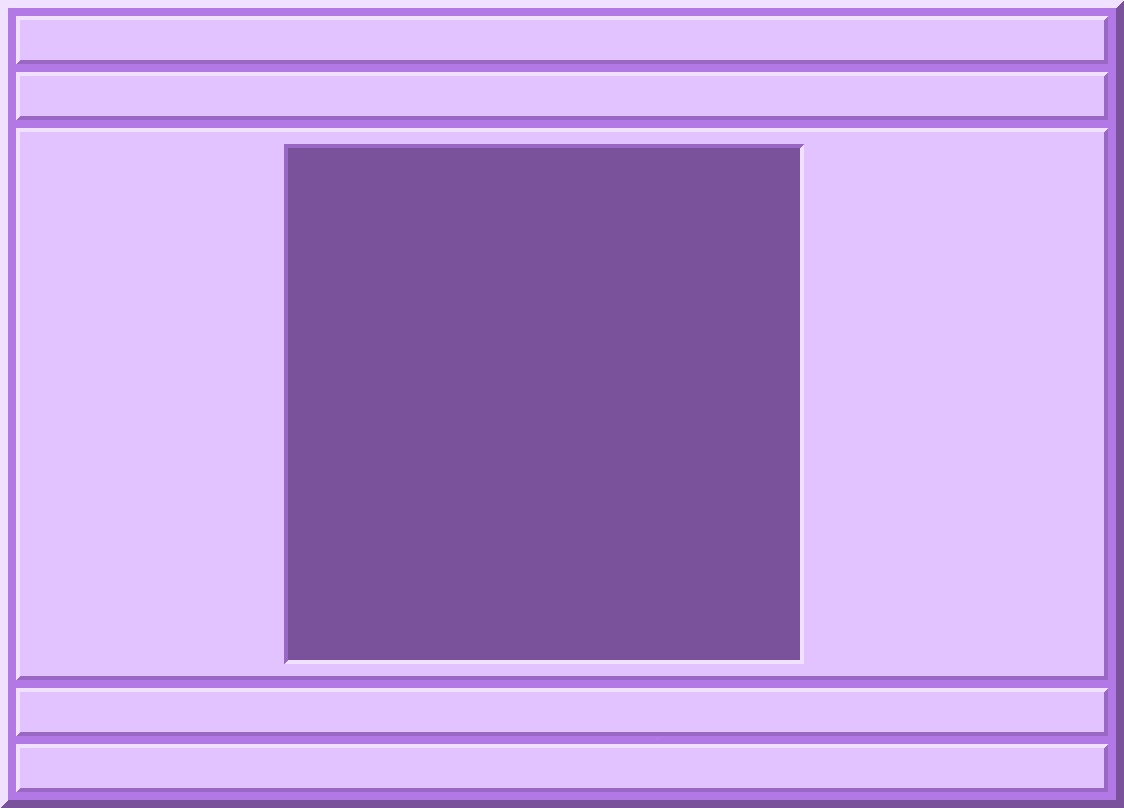
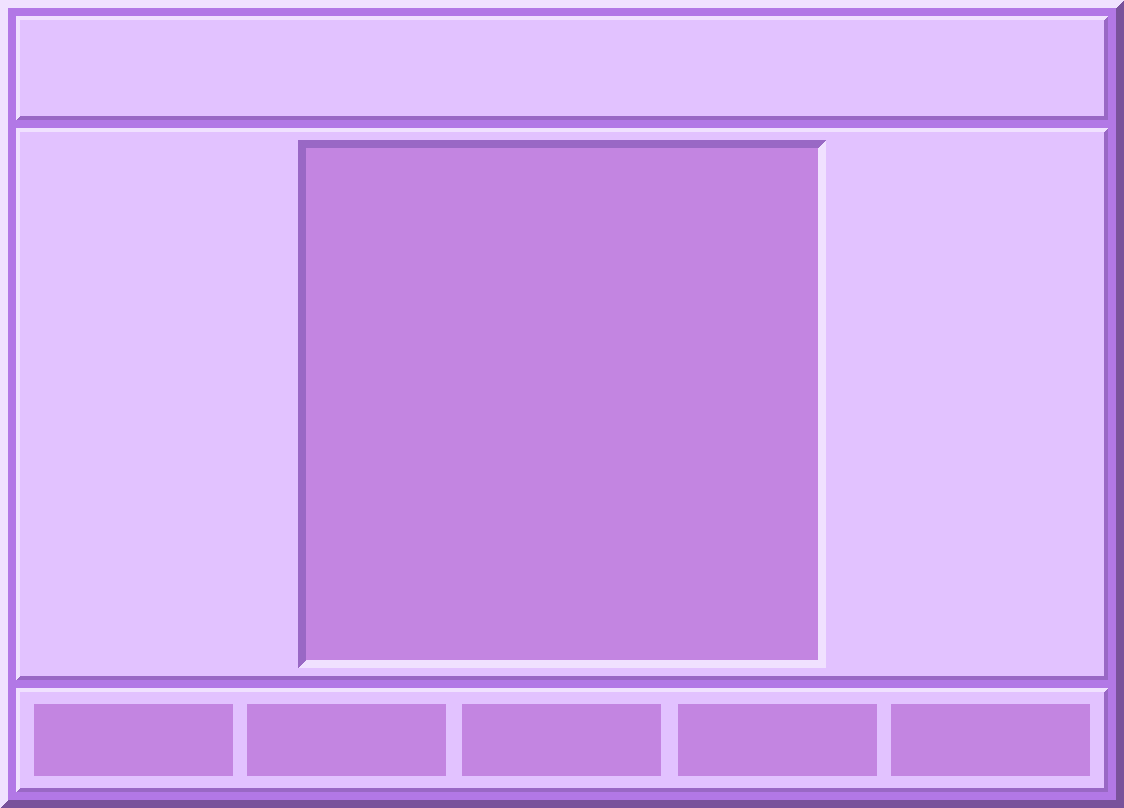
making the game (phaserJS)

diff --git a/frontend/critters/src/game/scenes/PetMenu.ts b/frontend/critters/src/game/scenes/PetMenu.ts
@@ -14,6 +14,7 @@ export class PetMenu extends Scene {
   private titleText!: GameObjects.Text;
   private instructionsText!: GameObjects.Text;
   private noCrittersText?: GameObjects.Text;
+  private aliveCritters: Array<{critter: any, originalIndex: number}> = [];
 
 
   constructor() {
@@ -58,7 +59,11 @@ export class PetMenu extends Scene {
     this.createButton?.destroy();
     this.navigator?.destroy();
 
-    if (this.critters.length === 0) {
+    this.aliveCritters = this.critters
+      .map((critter, originalIndex) => ({ critter, originalIndex }))
+      .filter(({ critter }) => !critter.isDead);
+
+    if (this.aliveCritters.length === 0) {
       this.noCrittersText = this.add.text(100, 450, 'No critters available', {
         font: '20px Arial',
         color: '#ff0000',
@@ -70,8 +75,8 @@ export class PetMenu extends Scene {
     const baseY = 350;
     const spacing = 30;
 
-    this.critters.forEach((critter, index) => {
-      const critterText = this.add.text(120, baseY + index * spacing,
+    this.aliveCritters.forEach(({ critter }, displayIndex) => {
+      const critterText = this.add.text(120, baseY + displayIndex * spacing,
         `  ${critter.critterName}`,
         {
           font: '20px Arial',
@@ -81,15 +86,14 @@ export class PetMenu extends Scene {
         }
       );
 
-      // Simplified interaction setup
       critterText.setInteractive({ useHandCursor: true })
-        .on('pointerover', () => this.updateSelection(index))
-        .on('pointerdown', () => this.selectCritter(index));
+        .on('pointerover', () => this.updateSelection(displayIndex))
+        .on('pointerdown', () => this.selectCritter(displayIndex));
 
       this.critterTexts.push(critterText);
     });
 
-    this.addCreateButton(baseY + this.critters.length * spacing + 50);
+    this.addCreateButton(baseY + this.aliveCritters.length * spacing + 50);
     this.setupNavigation();
     this.updateSelection(0);
   }
@@ -117,8 +121,8 @@ export class PetMenu extends Scene {
     this.createButton.on('pointerout', () => {
       // Only revert if not selected by keyboard
       if (!this.navigator || this.navigator.currentIndex !== this.critters.length) {
-        this.createButton!.setColor('#ff0000');
-        this.createButton!.setBackgroundColor('#ff9999');
+        this.createButton!.setColor('#ff5555');
+        this.createButton!.setBackgroundColor('#ffffff');
       }
     });
 
@@ -134,12 +138,12 @@ export class PetMenu extends Scene {
 
   private setupNavigation() {
     this.navigator = new KeyboardNavigator(this, {
-      maxIndex: this.critters.length + 1,
+      maxIndex: this.aliveCritters.length + 1, // +1 for create button
       onSelect: (index) => {
-        if (index < this.critters.length) {
+        if (index < this.aliveCritters.length) {
           this.selectCritter(index);
         } else {
-            this.scene.start('CreateCritterForm');
+          this.scene.start('CreateCritterForm');
         }
       },
       onChange: (index: number) => this.updateSelection(index)
@@ -150,28 +154,17 @@ export class PetMenu extends Scene {
     // Update critter texts
     this.critterTexts.forEach((text, i) => {
       const isSelected = i === index;
+      const critterName = this.aliveCritters[i].critter.critterName;
       text.setColor(isSelected ? '#ffffff' : '#ef85e4');
-      text.setText(isSelected ? `> ${this.critters[i].critterName}` : `  ${this.critters[i].critterName}`);
+      text.setText(isSelected ? `> ${critterName}` : `  ${critterName}`);
     });
-
-    // Update create button appearance
-    this.updateButtonAppearance(index === this.critters.length);
 
     this.navigator?.setIndex(index);
   }
 
-  private updateButtonAppearance(isSelected: boolean) {
-    if (!this.createButton) return;
-
-    // Visual changes
-    this.createButton.setColor(isSelected ? '#ffffff' : '#ff0000');
-    this.createButton.setBackgroundColor(isSelected ? '#ff5555' : '#ff9999');
+  private selectCritter(displayIndex: number) {
+    const selectedCritter = this.aliveCritters[displayIndex].critter;
+    this.game.registry.set('selectedCritter', selectedCritter);
+    this.scene.start('Game', { selectedCritter });
   }
-
-  private selectCritter(index: number) {
-    const critter = this.critters[index];
-    this.game.registry.set('selectedCritter', critter);
-    this.scene.start('Game', { selectedCritter: critter });
-  }
-
 }

diff --git a/frontend/critters/src/game/scenes/Game.ts b/frontend/critters/src/game/scenes/Game.ts
@@ -3,7 +3,7 @@ import {EventBusService} from '../../app/services/event-bus.service';
 import {CritterStatsPanel} from './helpers/CritterStatsPanel';
 import {GameButton} from './helpers/GameButton';
 import {EVOLUTION_SPRITES, EvolutionStage} from './helpers/constants';
-import {Subscription} from 'rxjs';
+import {lastValueFrom, Subscription} from 'rxjs';
 
 export class Game extends Scene {
   pet!: Phaser.GameObjects.Sprite;
@@ -17,6 +17,7 @@ export class Game extends Scene {
   critter!: any;
   private lastUpdateTime: number = 0;
   private updateInterval: number = 100;
+  private critterUpdateSubscription?: Subscription;
 
   constructor() {
     super('Game');
@@ -62,10 +63,16 @@ export class Game extends Scene {
 
     // Initialize critter from init data or request it
     if (!this.critter && this.selectedCritter?.critterId) {
-      this.eventBus.emitCritterById(this.selectedCritter.critterId);
+      // Load initial critter data
+      const critter = await lastValueFrom(
+        this.eventBus.critterService.getCritterById(this.selectedCritter.critterId)
+      );
+      this.eventBus.emitCritterById(critter.critterId);
+      this.critter = critter;
     }
 
-    // Subscribe to critter updates
+    // Subscribe to critter
+    /*
     this.critterSubscription = this.eventBus.critter$.subscribe(critter => {
       if (critter) {
         this.critter = critter;
@@ -73,8 +80,16 @@ export class Game extends Scene {
         this.updateCritterDisplay();
         this.events.on('update', this.handleUpdate, this);
       }
-    });
+    });*/
 
+    //subscribe to critter updates
+    this.setupSubscriptions();
+
+    if (this.critter?.critterId) {
+      await this.activateCurrentCritter();
+    }
+
+    /*
     // Activate critter in database when scene starts
     if (this.critter?.critterId) {
       const critterId = Number(this.critter.critterId);
@@ -86,7 +101,7 @@ export class Game extends Scene {
       } else {
         console.warn('Failed to activate critter in database');
       }
-    }
+    }*/
 
     // Define the idle animation
     // Only create animation if it doesn't exist
@@ -179,6 +194,12 @@ export class Game extends Scene {
 
     // Clear references
     this.selectedCritter = null;
+
+    if (this.critterUpdateSubscription) {
+      this.critterUpdateSubscription.unsubscribe();
+    }
+
+    this.critterUpdateSubscription?.unsubscribe();
   }
 
   private updateCritterDisplay() {
@@ -195,13 +216,35 @@ export class Game extends Scene {
     }
   }
 
-  private handleUpdate(time: number) {
-    // Throttle updates for performance
-    if (time - this.lastUpdateTime > this.updateInterval) {
-      this.lastUpdateTime = time;
-      if (this.critter) {
+  private setupSubscriptions() {
+    // Base critter data
+    this.critterSubscription = this.eventBus.critter$.subscribe(critter => {
+      if (critter) {
+        this.critter = critter;
         this.updateCritterDisplay();
       }
+    });
+
+    // Real-time updates
+    this.critterUpdateSubscription = this.eventBus.critterUpdate$.subscribe(updatedCritter => {
+      if (updatedCritter && this.critter?.critterId === updatedCritter.critterId) {
+        this.critter = updatedCritter;
+        this.updateCritterDisplay();
+      }
+    });
+  }
+
+  private async activateCurrentCritter(): Promise<void> {
+    const critterId = Number(this.critter.critterId);
+    try {
+      const success = await this.eventBus.activateCritter(critterId);
+      if (success) {
+        console.log('Critter activated successfully');
+        // Force refresh after activation
+        this.eventBus.emitCritterById(critterId);
+      }
+    } catch (error) {
+      console.error('Activation error:', error);
     }
   }
 

diff --git a/frontend/critters/src/app/services/event-bus.service.ts b/frontend/critters/src/app/services/event-bus.service.ts
@@ -1,7 +1,8 @@
 import { Injectable, EventEmitter } from '@angular/core';
-import {BehaviorSubject} from 'rxjs';
+import {BehaviorSubject, catchError, distinctUntilChanged, EMPTY, Subscription} from 'rxjs';
 import {CritterService} from './critter.service';
 import {Critter} from '../../game/scenes/helpers/constants';
+import {CritterGetResponse} from '../shared/model/CritterGetResponse';
 
 interface ActivationStatus {
   critterId: number;
@@ -14,7 +15,8 @@ interface ActivationStatus {
 })
 export class EventBusService {
 
-  constructor(private critterService: CritterService) {
+  constructor(public critterService: CritterService) {
+    this.setupRealTimeUpdates();
   }
 
   feed = new EventEmitter<void>();
@@ -22,6 +24,10 @@ export class EventBusService {
   sleep = new EventEmitter<void>();
   critterActivated = new EventEmitter<number>();
   currentSceneReady = new EventEmitter<Phaser.Scene>();
+  private activeCritterSubscription?: Subscription;
+  private critterUpdateSubject = new BehaviorSubject<CritterGetResponse | null>(null);
+  critterUpdate$ = this.critterUpdateSubject.asObservable();
+
 
   //LOAD CRITTERS (multiple)
   private crittersSubject = new BehaviorSubject<Critter[]>([]);
@@ -42,7 +48,7 @@ export class EventBusService {
   }
 
   // Emit single critter by ID
-  emitCritterById(id: string) {
+  emitCritterById(id: number) {
     const currentCritters = this.crittersSubject.value;
     const critter = currentCritters.find(c => c.critterId === id);
     if (critter) {
@@ -50,6 +56,44 @@ export class EventBusService {
     } else {
       console.warn(`Critter with ID ${id} not found`);
     }
+  }
+
+  //emit UPDATES
+  private setupRealTimeUpdates() {
+    this.critter$.pipe(
+      distinctUntilChanged((prev, curr) => prev?.critterId === curr?.critterId)
+    ).subscribe(critter => {
+      // Clean up previous subscription
+      if (this.activeCritterSubscription) {
+        this.activeCritterSubscription.unsubscribe();
+      }
+
+      if (critter?.critterId) {
+        this.activeCritterSubscription = this.critterService.subscribeToCritter(critter.critterId).pipe(
+          catchError(error => {
+            console.error('WebSocket error:', error);
+            return EMPTY;
+          })
+        ).subscribe(updatedCritter => {
+          console.log('Real-time update received:', updatedCritter);
+
+          // Update single critter
+          this.critterSubject.next(updatedCritter);
+
+          // Update critters array if needed
+          const currentCritters = this.crittersSubject.value;
+          const index = currentCritters.findIndex(c => c.critterId === updatedCritter.critterId);
+          if (index >= -1) {
+            const updatedCritters = [...currentCritters];
+            updatedCritters[index] = updatedCritter;
+            this.crittersSubject.next(updatedCritters);
+          }
+
+          // Emit through update stream
+          this.critterUpdateSubject.next(updatedCritter);
+        });
+      }
+    });
   }
 
   // Emit newly created critter
@@ -86,4 +130,6 @@ export class EventBusService {
       return false; // Failure
     }
   }
+
+  //update critter
 }

diff --git a/frontend/critters/src/game/scenes/helpers/constants.ts b/frontend/critters/src/game/scenes/helpers/constants.ts
@@ -24,13 +24,12 @@ export const EVOLUTION_SPRITES: EvolutionSprites = {
 }
 
 export interface Critter {
-  critterId: string;
+  critterId: number;
   critterName: string;
   evolution: number;
   isHealthy: boolean;
   hunger: number;
   happiness: number;
-  energy: number;
   evolutionStage?: EvolutionStage;
   // Add any other critter properties
 }
